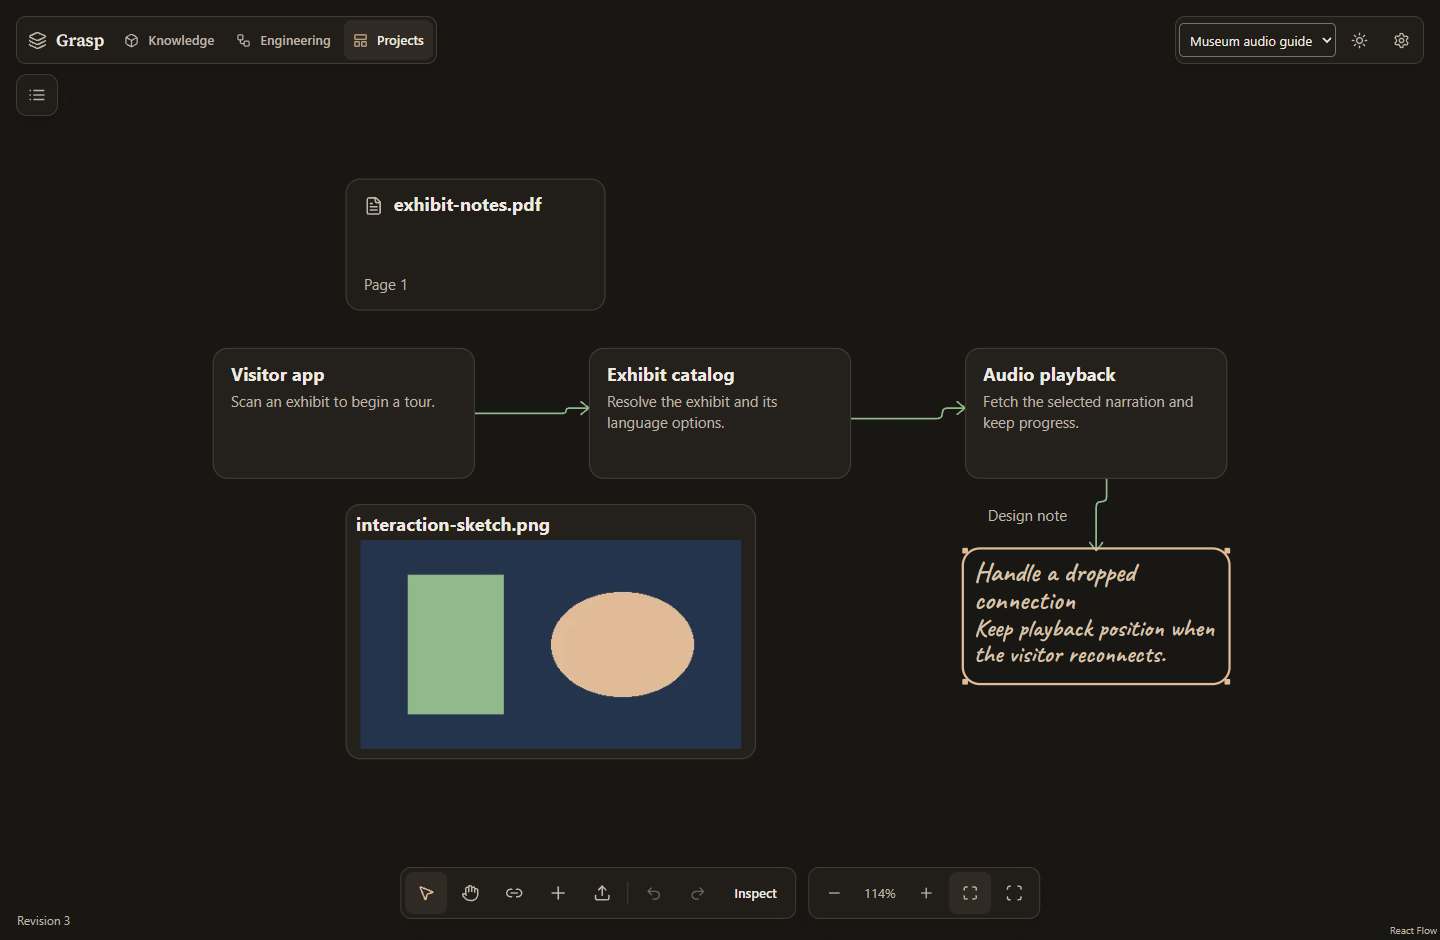
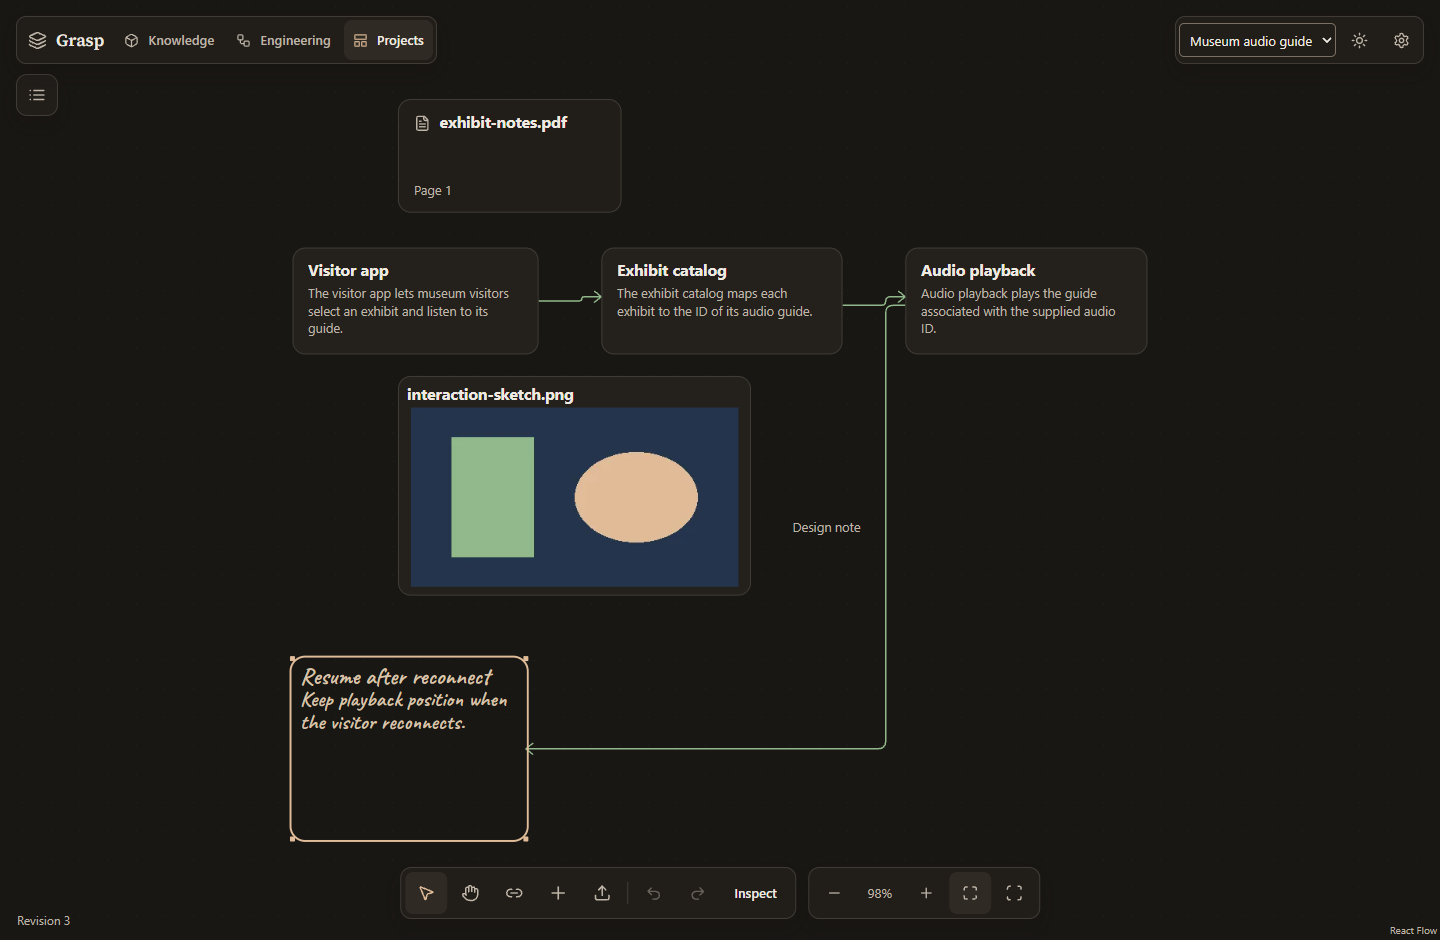
docs: verify the Codex developer preview walkthrough

diff --git a/README.md b/README.md
@@ -2,7 +2,7 @@
 
 # GRASP
 
-Retrieval-grounded visual workspace for AI-assisted software design, document understanding and agent collaboration.
+A retrieval-grounded visual workspace for understanding and designing software with AI agents.
 
 **Developer preview · Milestone A**
 
@@ -25,22 +25,22 @@ GRASP started with a question about document Q&A. How can a reader see which pas
 <table>
   <tr>
     <td width="50%"><a href="docs/assets/preview-knowledge.webp"><img src="docs/assets/preview-knowledge.webp" alt="Knowledge workspace with a question about retrieval practice and an exact passage highlighted in its sample source."></a></td>
-    <td width="50%"><a href="docs/assets/preview-project.webp"><img src="docs/assets/preview-project.webp" alt="Project canvas with a synthetic software diagram, imported image and PDF cards, and a saved annotation from a local MCP session."></a></td>
+    <td width="50%"><a href="docs/assets/preview-project.webp"><img src="docs/assets/preview-project.webp" alt="Museum audio guide board with a diagram created by Codex, an imported image and PDF, and a note about resuming playback after reconnecting."></a></td>
   </tr>
   <tr>
     <td><strong>Knowledge.</strong> A cited answer and its source in the bundled sample.</td>
-    <td><strong>Projects.</strong> A synthetic design board with imported files and a saved agent annotation.</td>
+    <td><strong>Projects.</strong> Codex built this board over MCP and added the playback note after the image and PDF were imported through the browser.</td>
   </tr>
 </table>
 
-All three screenshots come from the running app with bundled or synthetic data. The Projects example used a local MCP test client to create the diagram and save the annotation.
+All three screenshots come from the running app with bundled or synthetic data. The Projects example used the signed-in Codex CLI against a disposable local GRASP library.
 
 <details>
 <summary>Recorded RAG walkthrough</summary>
 
 ![Recorded GRASP walkthrough showing an example note, the ingestion replay and a cited answer.](docs/assets/showcase.gif)
 
-The browser-only showcase replays bundled example traces. Run it locally at [`/showcase/`](http://127.0.0.1:5173/showcase/) or open the [RAG guide](http://127.0.0.1:5173/showcase/?view=guide).
+The browser-only showcase replays bundled example traces. It answers sample questions from recorded passages without a model connection. Run it locally at [`/showcase/`](http://127.0.0.1:5173/showcase/) or open the [RAG guide](http://127.0.0.1:5173/showcase/?view=guide).
 
 </details>
 
@@ -64,7 +64,15 @@ The default `MOCK_LLM=1` uses deterministic local embeddings and returns retriev
 
 ### Connect Codex
 
-Install the local Python adapter and run `grasp setup --agent codex` from the checkout. Setup registers the MCP server and skill with Codex and stores separate owner and agent credentials locally. Start GRASP and open a fresh local Codex chat. Ask it to help sketch a system on a GRASP board, select an item in the browser, then ask it to explain the selection or add a related note. [Adapter installation and walkthrough](docs/grasp-v2/agent-guide.md)
+This setup is optional for the local walkthrough. To connect an installed Codex client on Windows, run these commands from the checkout in PowerShell.
+
+```powershell
+py -3.11 -m venv .venv-mcp
+.\.venv-mcp\Scripts\python.exe -m pip install -e .\apps\agent
+.\.venv-mcp\Scripts\grasp.exe setup --agent codex
+```
+
+Setup registers the MCP server and skill with Codex and stores separate owner and agent credentials in the ignored `.env`. Start or restart GRASP, run `.\.venv-mcp\Scripts\grasp.exe doctor`, then open a fresh local Codex chat. Ask it to sketch a system on a GRASP board. Select a component in the browser, then ask Codex to explain it or add a related note. Enter the owner credential in GRASP when it prompts for one. [Adapter installation and walkthrough](docs/grasp-v2/agent-guide.md)
 
 ## Architecture
 
@@ -83,7 +91,7 @@ flowchart LR
     validate --> sourceView["Answer and source view"]
 ```
 
-The retriever searches text chunks. The concept map uses links to those chunks so readers can explore related ideas. The API checks cited quotes against the stored passage. When retrieval finds no supporting passage, the API can decline to answer. [RAG design and code map](docs/rag-design.md)
+GRASP extracts text page by page and can use local OCR for scanned PDFs. It embeds text chunks with LangChain and uses ChromaDB to rank them within the selected document scope. In live mode, the model drafts a structured answer from the retrieved passages. FastAPI validates the response with Pydantic and checks cited quotes against the stored text. The concept map links to the same chunks so readers can explore related ideas. When retrieval finds no supporting passage, the API can decline to answer. [RAG design and code map](docs/rag-design.md)
 
 ### Shared project boards
 
@@ -117,7 +125,7 @@ The [Milestone A acceptance guide](docs/grasp-v2/milestone-a-assets.md) covers b
 
 ## Preview scope
 
-This is a single-owner workspace. Images can be placed, previewed and shared as board assets. The agent can see authorized image metadata. Image interpretation and visual retrieval are future work. See the [Milestone A details](docs/grasp-v2/milestone-a-assets.md) and [roadmap](docs/grasp-v2/roadmap.md).
+This is a local, single-owner workspace. Milestone A implements image and document assets on Project boards. The agent can read image metadata when the owner shares an asset on that board. Manual acceptance is pending. Image interpretation, contextual multimodal retrieval and evidence on diagram arrows are planned work. [Milestone A details](docs/grasp-v2/milestone-a-assets.md) · [Roadmap](docs/grasp-v2/roadmap.md)
 
 ## Demo script
 
@@ -136,3 +144,7 @@ This is a single-owner workspace. Images can be placed, previewed and shared as 
 | [`docs`](docs/) | Design decisions, experiments and acceptance notes |
 
 [Course walkthrough](docs/course-walkthrough.md) · [Retrieval tradeoffs](docs/tradeoffs.md) · [Interview talk track](docs/interview-talk-track.md)
+
+## Author
+
+Stanley Lur · Computer Science (Real-Time Interactive Simulation). [Portfolio](https://www.stanleylur.com/) · [GitHub](https://github.com/stanbang)
